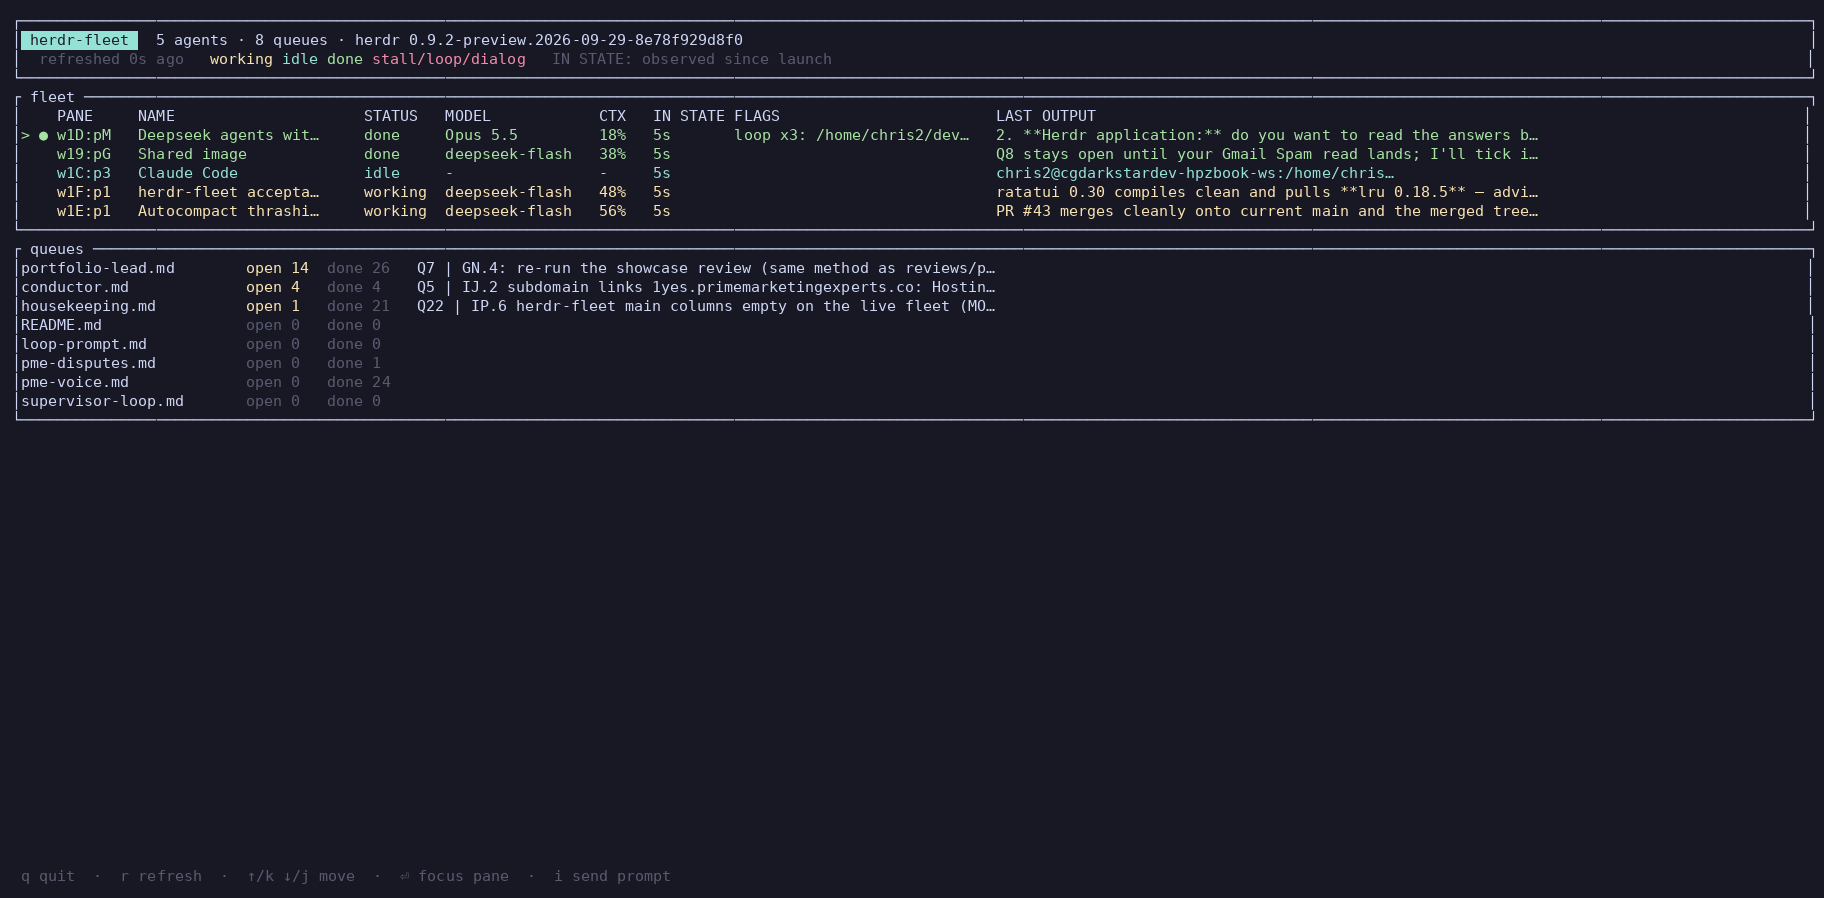
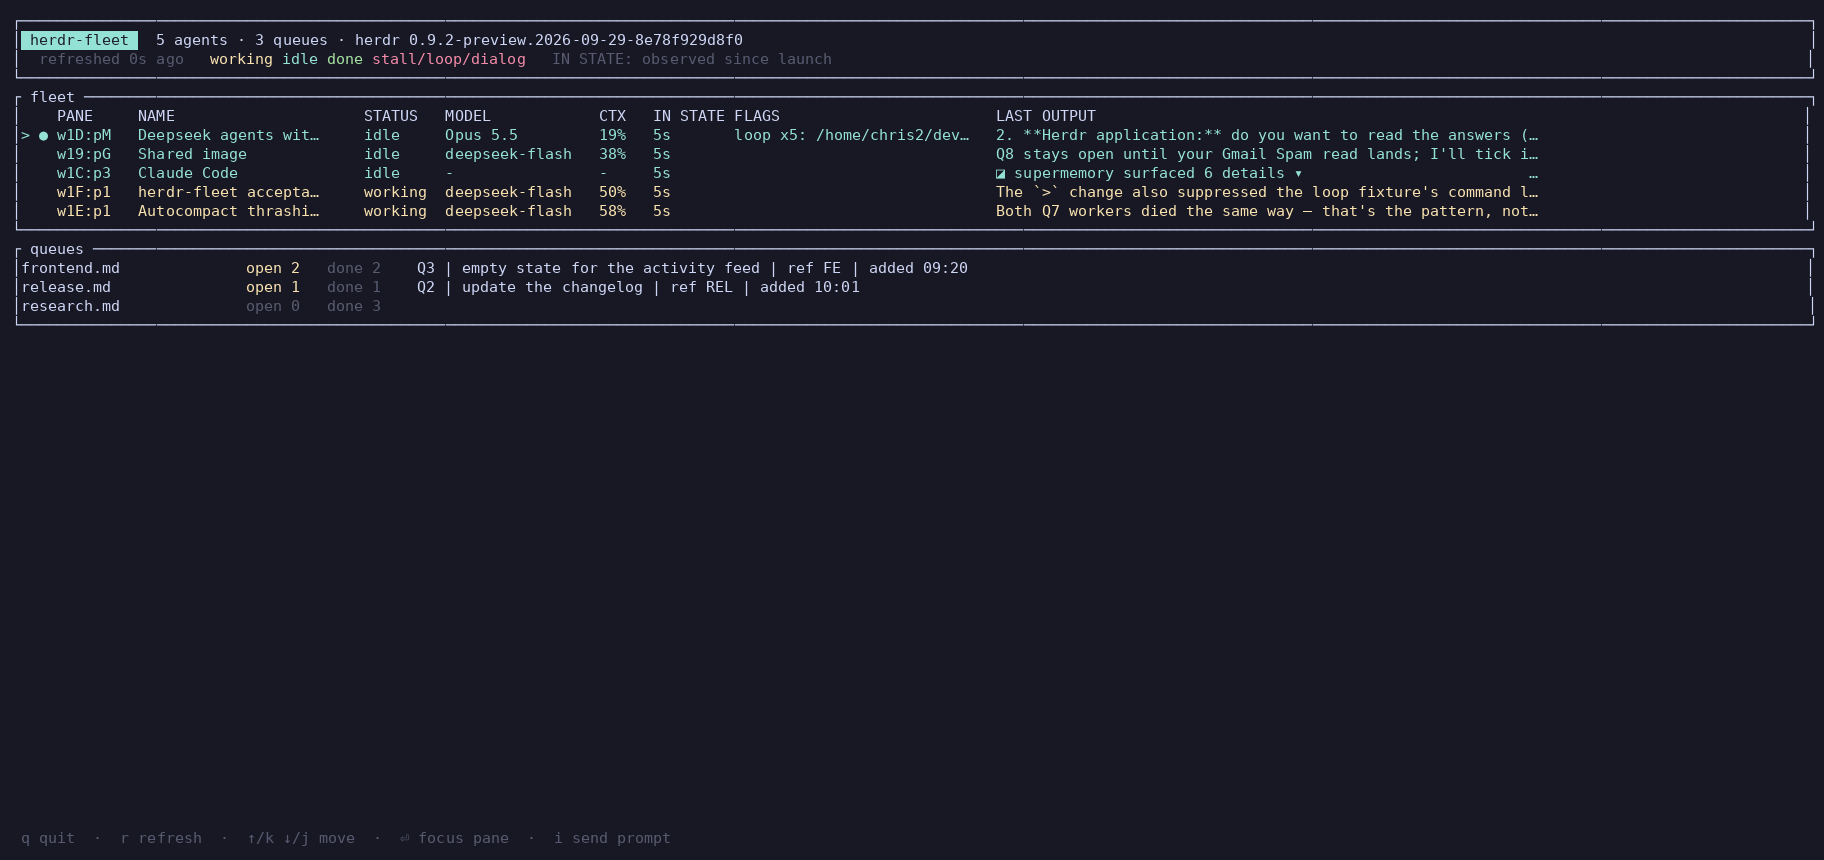
fix: filter status-line chrome and the input box out of the pane-text fallback
A pane with no transcript (or a non-Claude agent) scrapes pane text, where the
last line is often Claude's status line — full, or width-truncated to
'user@host:path…' — or the input box and its greyed suggestion. Skip all three,
so LAST OUTPUT shows real output instead of shell chrome. Also point the README
screenshot at docs/demo-queue so a public capture carries no private names.

Changed region(s): [[0.0, 0.0, 1.0, 0.4535]]

diff --git a/src/parser.rs b/src/parser.rs
@@ -46,6 +46,24 @@ pub fn is_border(line: &str) -> bool {
     !t.is_empty() && t.chars().all(|c| matches!(c, '─' | '━' | '═' | ' ' | '│'))
 }
 
+/// A Claude status line — including one the pane width has truncated before its
+/// first `|`, leaving just `user@host:path…`. Those must never be shown as the
+/// agent's last output.
+pub fn is_status_chrome(line: &str) -> bool {
+    let t = line.trim();
+    if parse_status_line(t).is_some() {
+        return true;
+    }
+    match t
+        .split_whitespace()
+        .next()
+        .and_then(|tok| tok.split_once('@'))
+    {
+        Some((user, rest)) => !user.is_empty() && rest.contains(':'),
+        None => false,
+    }
+}
+
 /// Lines too short or too decorative to count as real output.
 pub fn is_substantive(line: &str) -> bool {
     let t = line.trim();
@@ -53,7 +71,7 @@ pub fn is_substantive(line: &str) -> bool {
         && !is_border(t)
         && t != "❯"
         && !t.starts_with('⏵')
-        && parse_status_line(t).is_none()
+        && !is_status_chrome(t)
 }
 
 /// Collapse runs of whitespace so two near-identical lines compare equal.
@@ -66,11 +84,13 @@ pub fn normalize_line(line: &str) -> String {
 pub fn last_meaningful_line(lines: &[&str]) -> Option<String> {
     for line in lines.iter().rev() {
         let t = line.trim();
+        // `❯` is the input box: an empty prompt, or one carrying the greyed-out
+        // suggestion. Never the agent's output.
         if t.is_empty()
             || is_border(t)
             || t.starts_with('⏵')
-            || t == "❯"
-            || parse_status_line(t).is_some()
+            || t.starts_with('❯')
+            || is_status_chrome(t)
         {
             continue;
         }
@@ -161,5 +181,23 @@ mod unit {
     fn empty_status_line_is_none() {
         assert!(parse_status_line("").is_none());
         assert!(parse_status_line("a | b").is_none());
+    }
+
+    #[test]
+    fn truncated_status_line_is_chrome() {
+        let lines = [
+            "● Real output line from the agent.",
+            "  dev@box:/home/dev/project-alpha | Opus 5.5 | ctx:15%",
+            "  dev@box:/home/dev/project-alph…",
+            "❯ Try \"refactor tool-invoker.ts\"",
+        ];
+        // Both the full and the width-truncated status line are skipped, as is
+        // the input box and its suggestion.
+        assert_eq!(
+            last_meaningful_line(&lines).as_deref(),
+            Some("● Real output line from the agent.")
+        );
+        assert!(is_status_chrome("  dev@box:/home/dev/project-alph…"));
+        assert!(!is_status_chrome("● Real output line from the agent."));
     }
 }

diff --git a/README.md b/README.md
@@ -10,6 +10,9 @@ needs to see, at a glance, which pane needs attention.
 
 ![herdr-fleet running against a live fleet](docs/screenshot.png)
 
+The capture is a real run against a live fleet; the queues panel uses
+[`docs/demo-queue`](docs/demo-queue) so no private checklist names are shown.
+
 ## What it shows
 
 | Column | Meaning |
@@ -118,8 +121,9 @@ format is herdr- or project-specific.
 - The `CTX` percentage is only as good as `--context-window`. It defaults to
   1,000,000 (the 1M-context models this was built against).
 - A Claude pane with no assistant message in its transcript yet, or a non-Claude
-  agent, falls back to the clamped pane text — where `MODEL`, `CTX` and
-  `LAST OUTPUT` may be blank or show chrome.
+  agent, falls back to the clamped pane text. `MODEL`/`CTX` are usually blank
+  there, but the status line (even truncated) and the input box are filtered out
+  of `LAST OUTPUT`.
 - The loop and dialog detectors are heuristics: a repeated Bash command in the
   recent transcript, and a small set of approval-dialog phrases in pane text.
 

diff --git a/docs/demo-queue/frontend.md b/docs/demo-queue/frontend.md
@@ -1,0 +1,5 @@
+# Queue: frontend
+- [x] Q1 | ship the dark-mode toggle | ref FE | added 09:10 | done 09:40
+- [x] Q2 | fix the focus ring on the search box | ref FE | added 09:12 | done 09:55
+- [ ] Q3 | empty state for the activity feed | ref FE | added 09:20
+- [ ] Q4 | keyboard shortcut help overlay | ref FE | added 09:22

diff --git a/docs/demo-queue/research.md b/docs/demo-queue/research.md
@@ -1,0 +1,4 @@
+# Queue: research
+- [x] Q1 | compare tail latency of the two caches | ref RES | added 11:00 | done 11:30
+- [x] Q2 | read the new batching paper | ref RES | added 11:05 | done 11:45
+- [x] Q3 | draft the TUI colour palette | ref RES | added 11:10 | done 11:50

diff --git a/docs/demo-queue/release.md b/docs/demo-queue/release.md
@@ -1,0 +1,3 @@
+# Queue: release
+- [x] Q1 | cut the 0.4.0 tag | ref REL | added 10:00 | done 10:05
+- [ ] Q2 | update the changelog | ref REL | added 10:01
